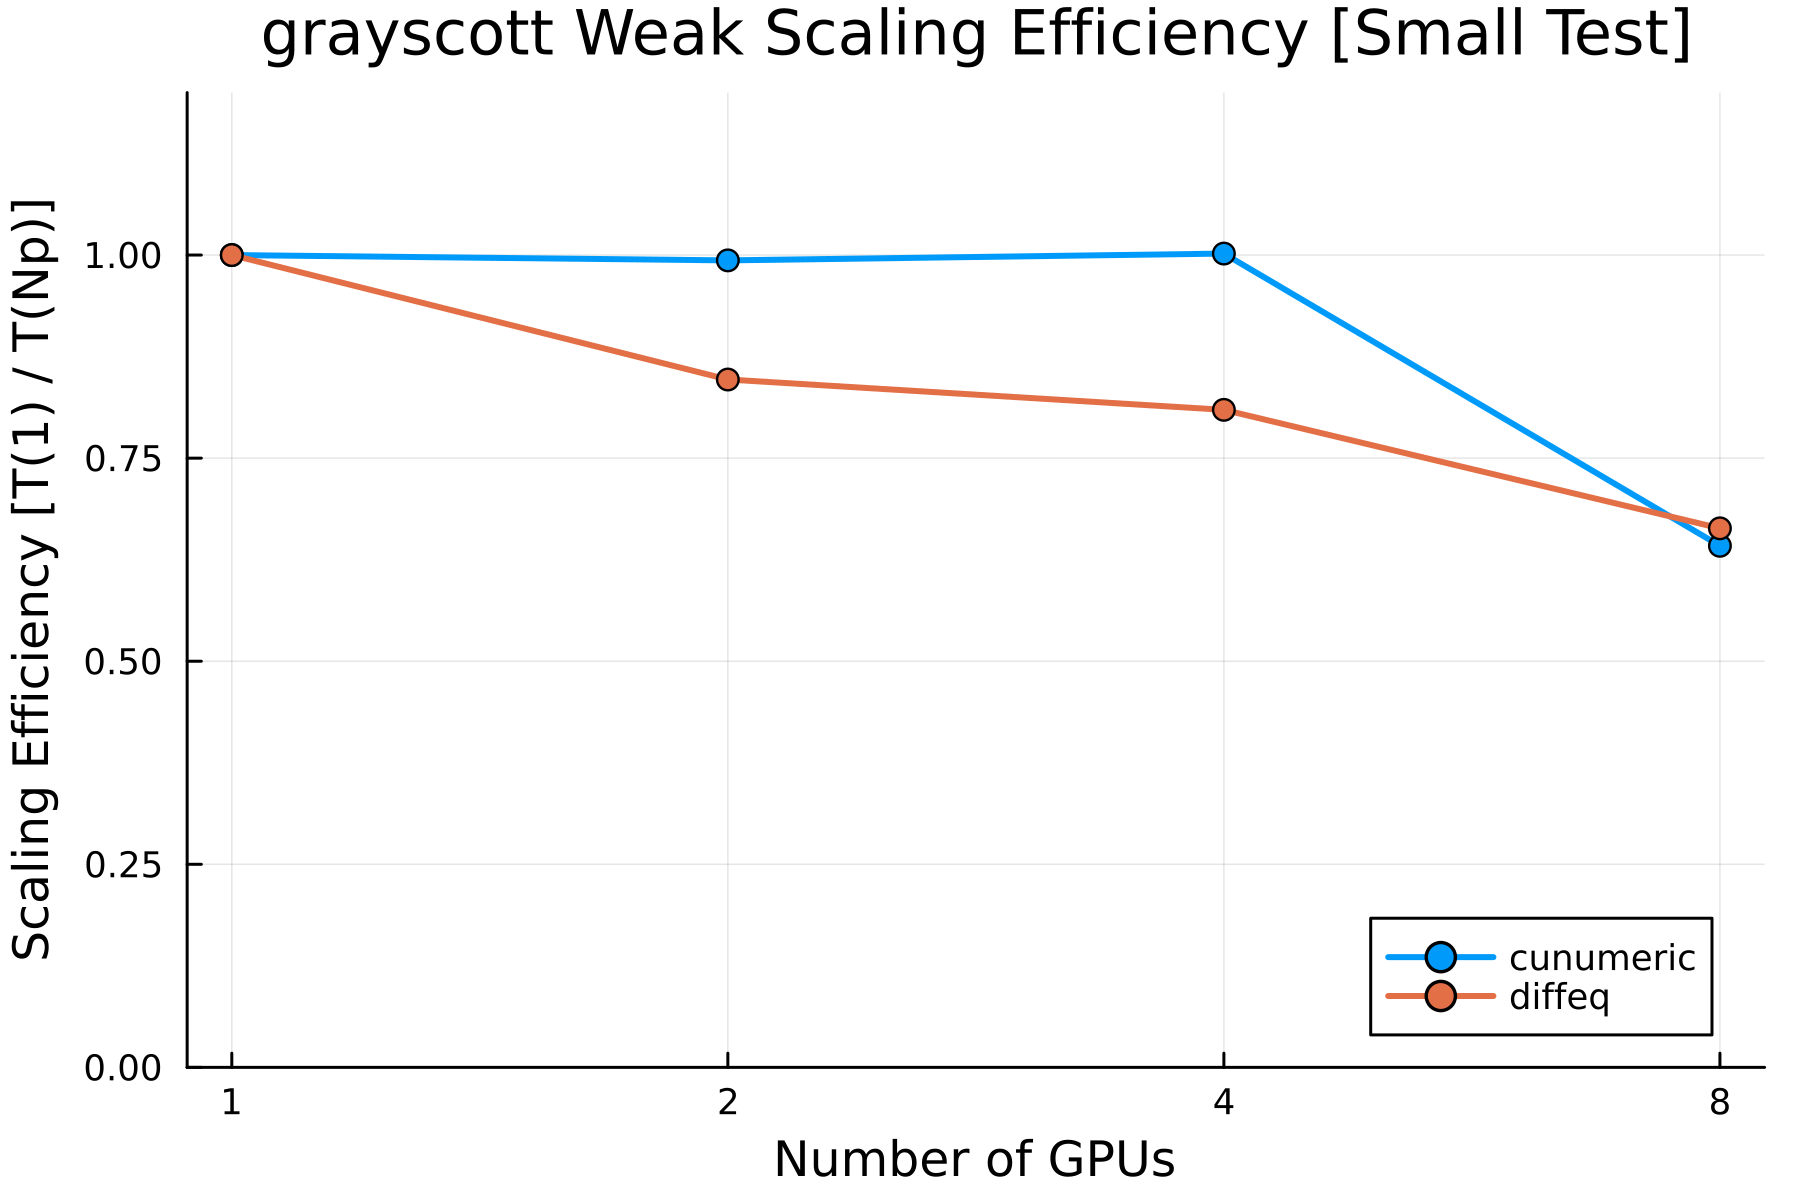
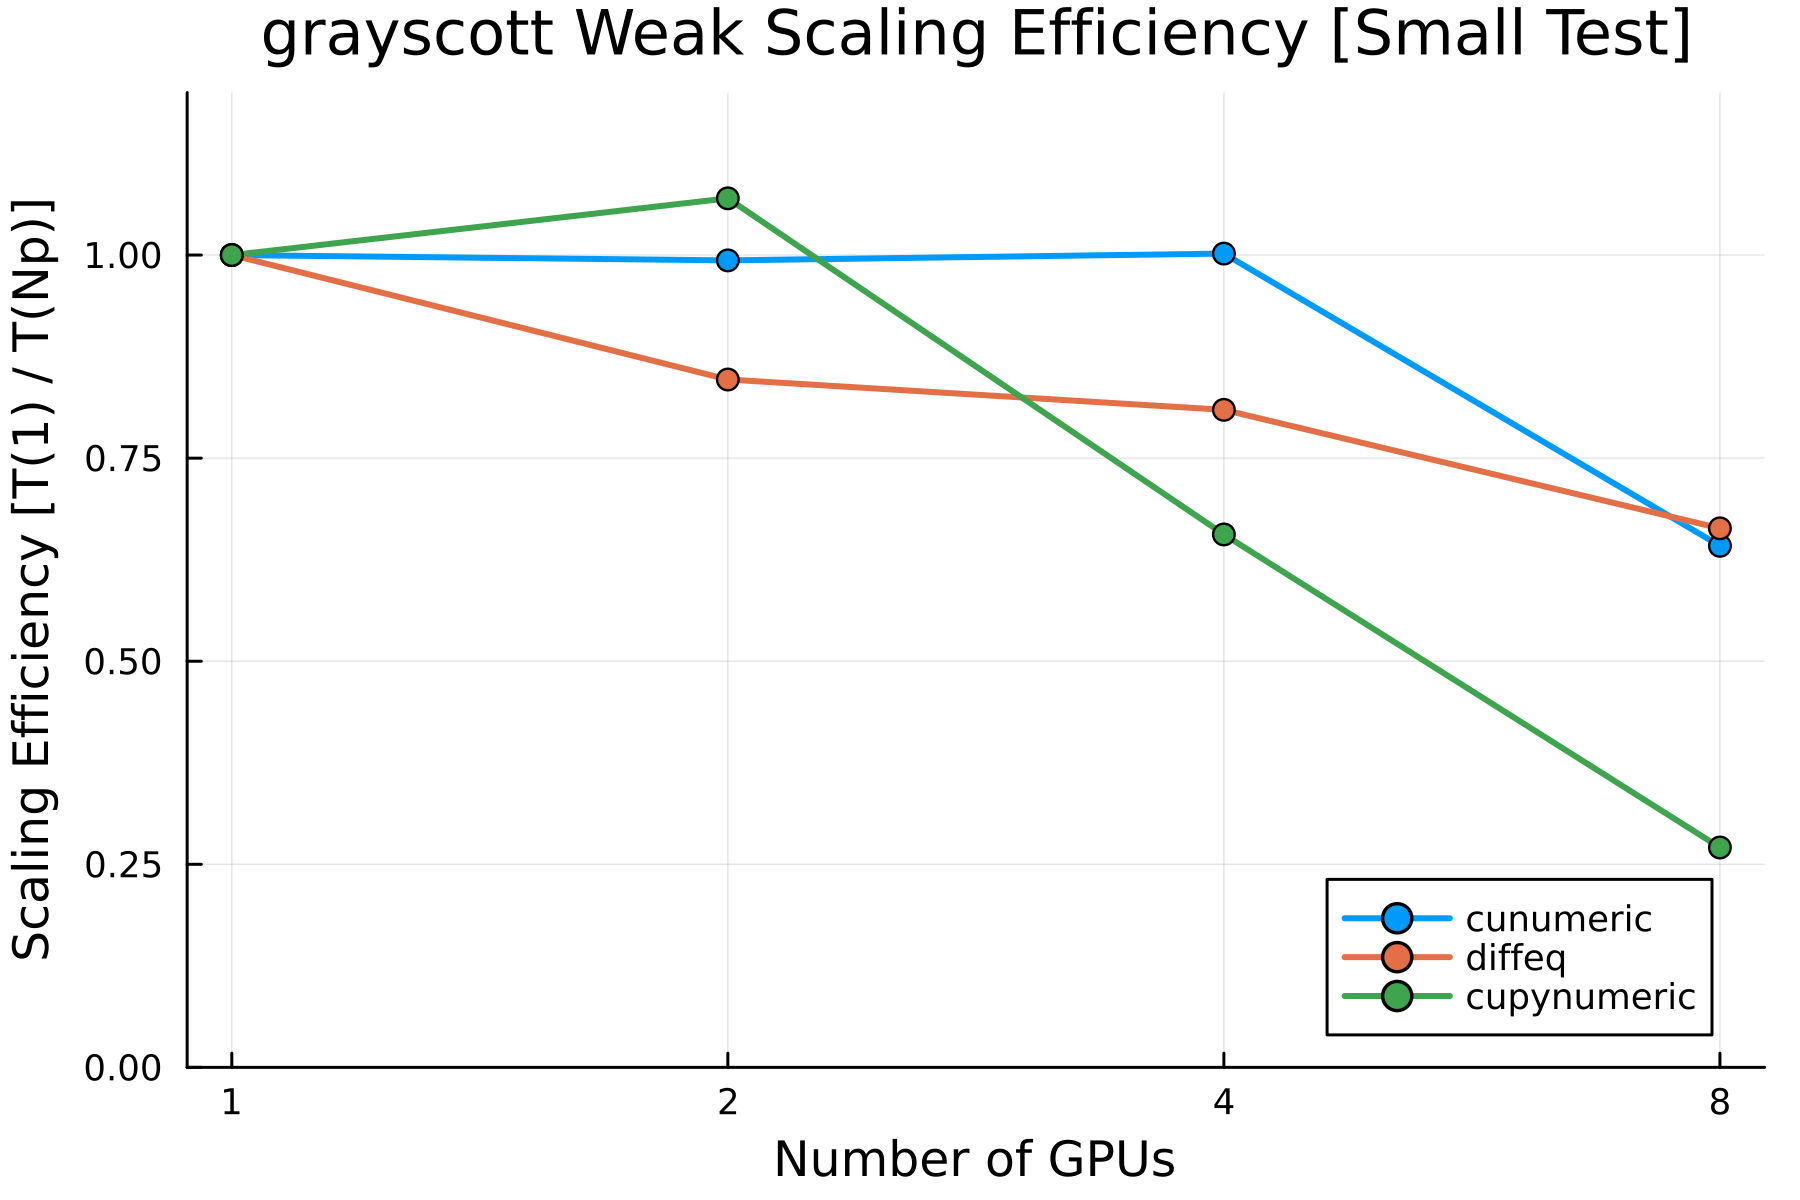
init results cupynumeric grayscott

diff --git a/models/cupynumeric/grayscott.py b/models/cupynumeric/grayscott.py
@@ -82,4 +82,4 @@ print(f"[cuPyNumeric] FLOPS: {gflops} GFLOPS")
 
 with open("./grayscott/grayscott.csv", "a", newline="") as csvfile:
     writer = csv.writer(csvfile)
-    writer.writerow(["cunumeric", gpus, N, M, f"{mean_time_ms:.6f}", f"{gflops:.6f}"])
+    writer.writerow(["cupynumeric", gpus, N, M, f"{mean_time_ms:.6f}", f"{gflops:.6f}"])
